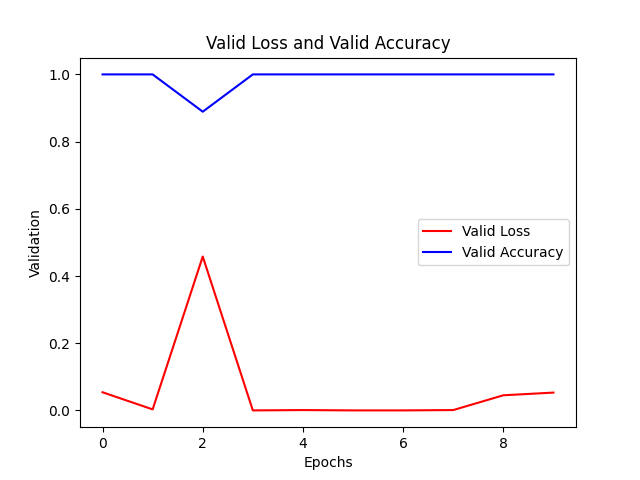
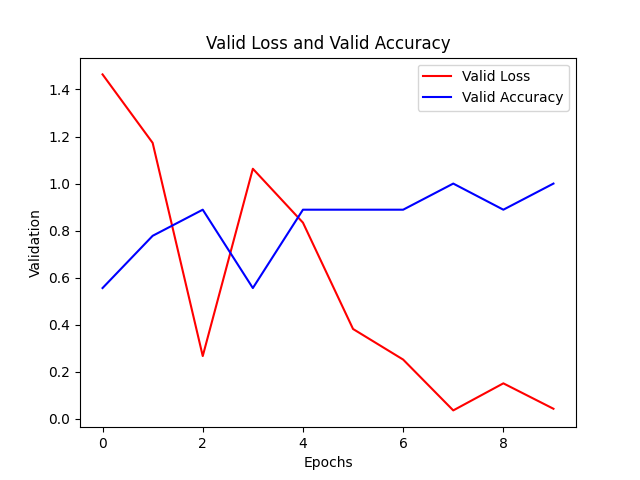
modifica

diff --git a/logs-training.md b/logs-training.md
@@ -5,8 +5,8 @@ Log del Entrenamiento
 
 Number of Samples in Train:  84
 Number of Samples in Valid:  9
-Number of Samples in Test:  5
-Total:  98
+Number of Samples in Test:  11
+Total:  104
 Number of Classes:  2
 ['buenas', 'malas']
 cpu
@@ -132,60 +132,61 @@ Starting Epoch 2
 Starting Epoch 3
 Starting Epoch 4
 Starting Epoch 5
-No. epochs: 5 	Training Loss: 0.019 	Valid Loss 0.054 	Valid Accuracy 1.0
+No. epochs: 5 	Training Loss: 0.007 	Valid Loss 1.464 	Valid Accuracy 0.556
 Starting Epoch 6
 Starting Epoch 7
 Starting Epoch 8
 Starting Epoch 9
 Starting Epoch 10
-No. epochs: 10 	Training Loss: 0.001 	Valid Loss 0.003 	Valid Accuracy 1.0
+No. epochs: 10 	Training Loss: 0.002 	Valid Loss 1.173 	Valid Accuracy 0.778
 Starting Epoch 11
 Starting Epoch 12
 Starting Epoch 13
 Starting Epoch 14
 Starting Epoch 15
-No. epochs: 15 	Training Loss: 0.008 	Valid Loss 0.458 	Valid Accuracy 0.889
+No. epochs: 15 	Training Loss: 0.005 	Valid Loss 0.267 	Valid Accuracy 0.889
 Starting Epoch 16
 Starting Epoch 17
 Starting Epoch 18
 Starting Epoch 19
 Starting Epoch 20
-No. epochs: 20 	Training Loss: 0.002 	Valid Loss 0.0 	Valid Accuracy 1.0
+No. epochs: 20 	Training Loss: 0.009 	Valid Loss 1.063 	Valid Accuracy 0.556
 Starting Epoch 21
 Starting Epoch 22
 Starting Epoch 23
 Starting Epoch 24
 Starting Epoch 25
-No. epochs: 25 	Training Loss: 0.007 	Valid Loss 0.001 	Valid Accuracy 1.0
+No. epochs: 25 	Training Loss: 0.042 	Valid Loss 0.834 	Valid Accuracy 0.889
 Starting Epoch 26
 Starting Epoch 27
 Starting Epoch 28
 Starting Epoch 29
 Starting Epoch 30
-No. epochs: 30 	Training Loss: 0.002 	Valid Loss 0.0 	Valid Accuracy 1.0
+No. epochs: 30 	Training Loss: 0.009 	Valid Loss 0.382 	Valid Accuracy 0.889
 Starting Epoch 31
 Starting Epoch 32
 Starting Epoch 33
 Starting Epoch 34
 Starting Epoch 35
-No. epochs: 35 	Training Loss: 0.0 	Valid Loss 0.0 	Valid Accuracy 1.0
+No. epochs: 35 	Training Loss: 0.001 	Valid Loss 0.252 	Valid Accuracy 0.889
 Starting Epoch 36
 Starting Epoch 37
 Starting Epoch 38
 Starting Epoch 39
 Starting Epoch 40
-No. epochs: 40 	Training Loss: 0.0 	Valid Loss 0.001 	Valid Accuracy 1.0
+No. epochs: 40 	Training Loss: 0.0 	Valid Loss 0.036 	Valid Accuracy 1.0
 Starting Epoch 41
 Starting Epoch 42
 Starting Epoch 43
 Starting Epoch 44
 Starting Epoch 45
-No. epochs: 45 	Training Loss: 0.0 	Valid Loss 0.045 	Valid Accuracy 1.0
+No. epochs: 45 	Training Loss: 0.002 	Valid Loss 0.151 	Valid Accuracy 0.889
 Starting Epoch 46
 Starting Epoch 47
 Starting Epoch 48
 Starting Epoch 49
 Starting Epoch 50
-No. epochs: 50 	Training Loss: 0.0 	Valid Loss 0.053 	Valid Accuracy 1.0
+No. epochs: 50 	Training Loss: 0.0 	Valid Loss 0.043 	Valid Accuracy 1.0
+
 
 ```

diff --git a/README.md b/README.md
@@ -22,7 +22,7 @@ Python 3.9
 
 ```bash
 
-virtualenv --python=python3.9 venv
+virtualenv --python=python3.10 .venv
 
 source venv/bin/activate
 
